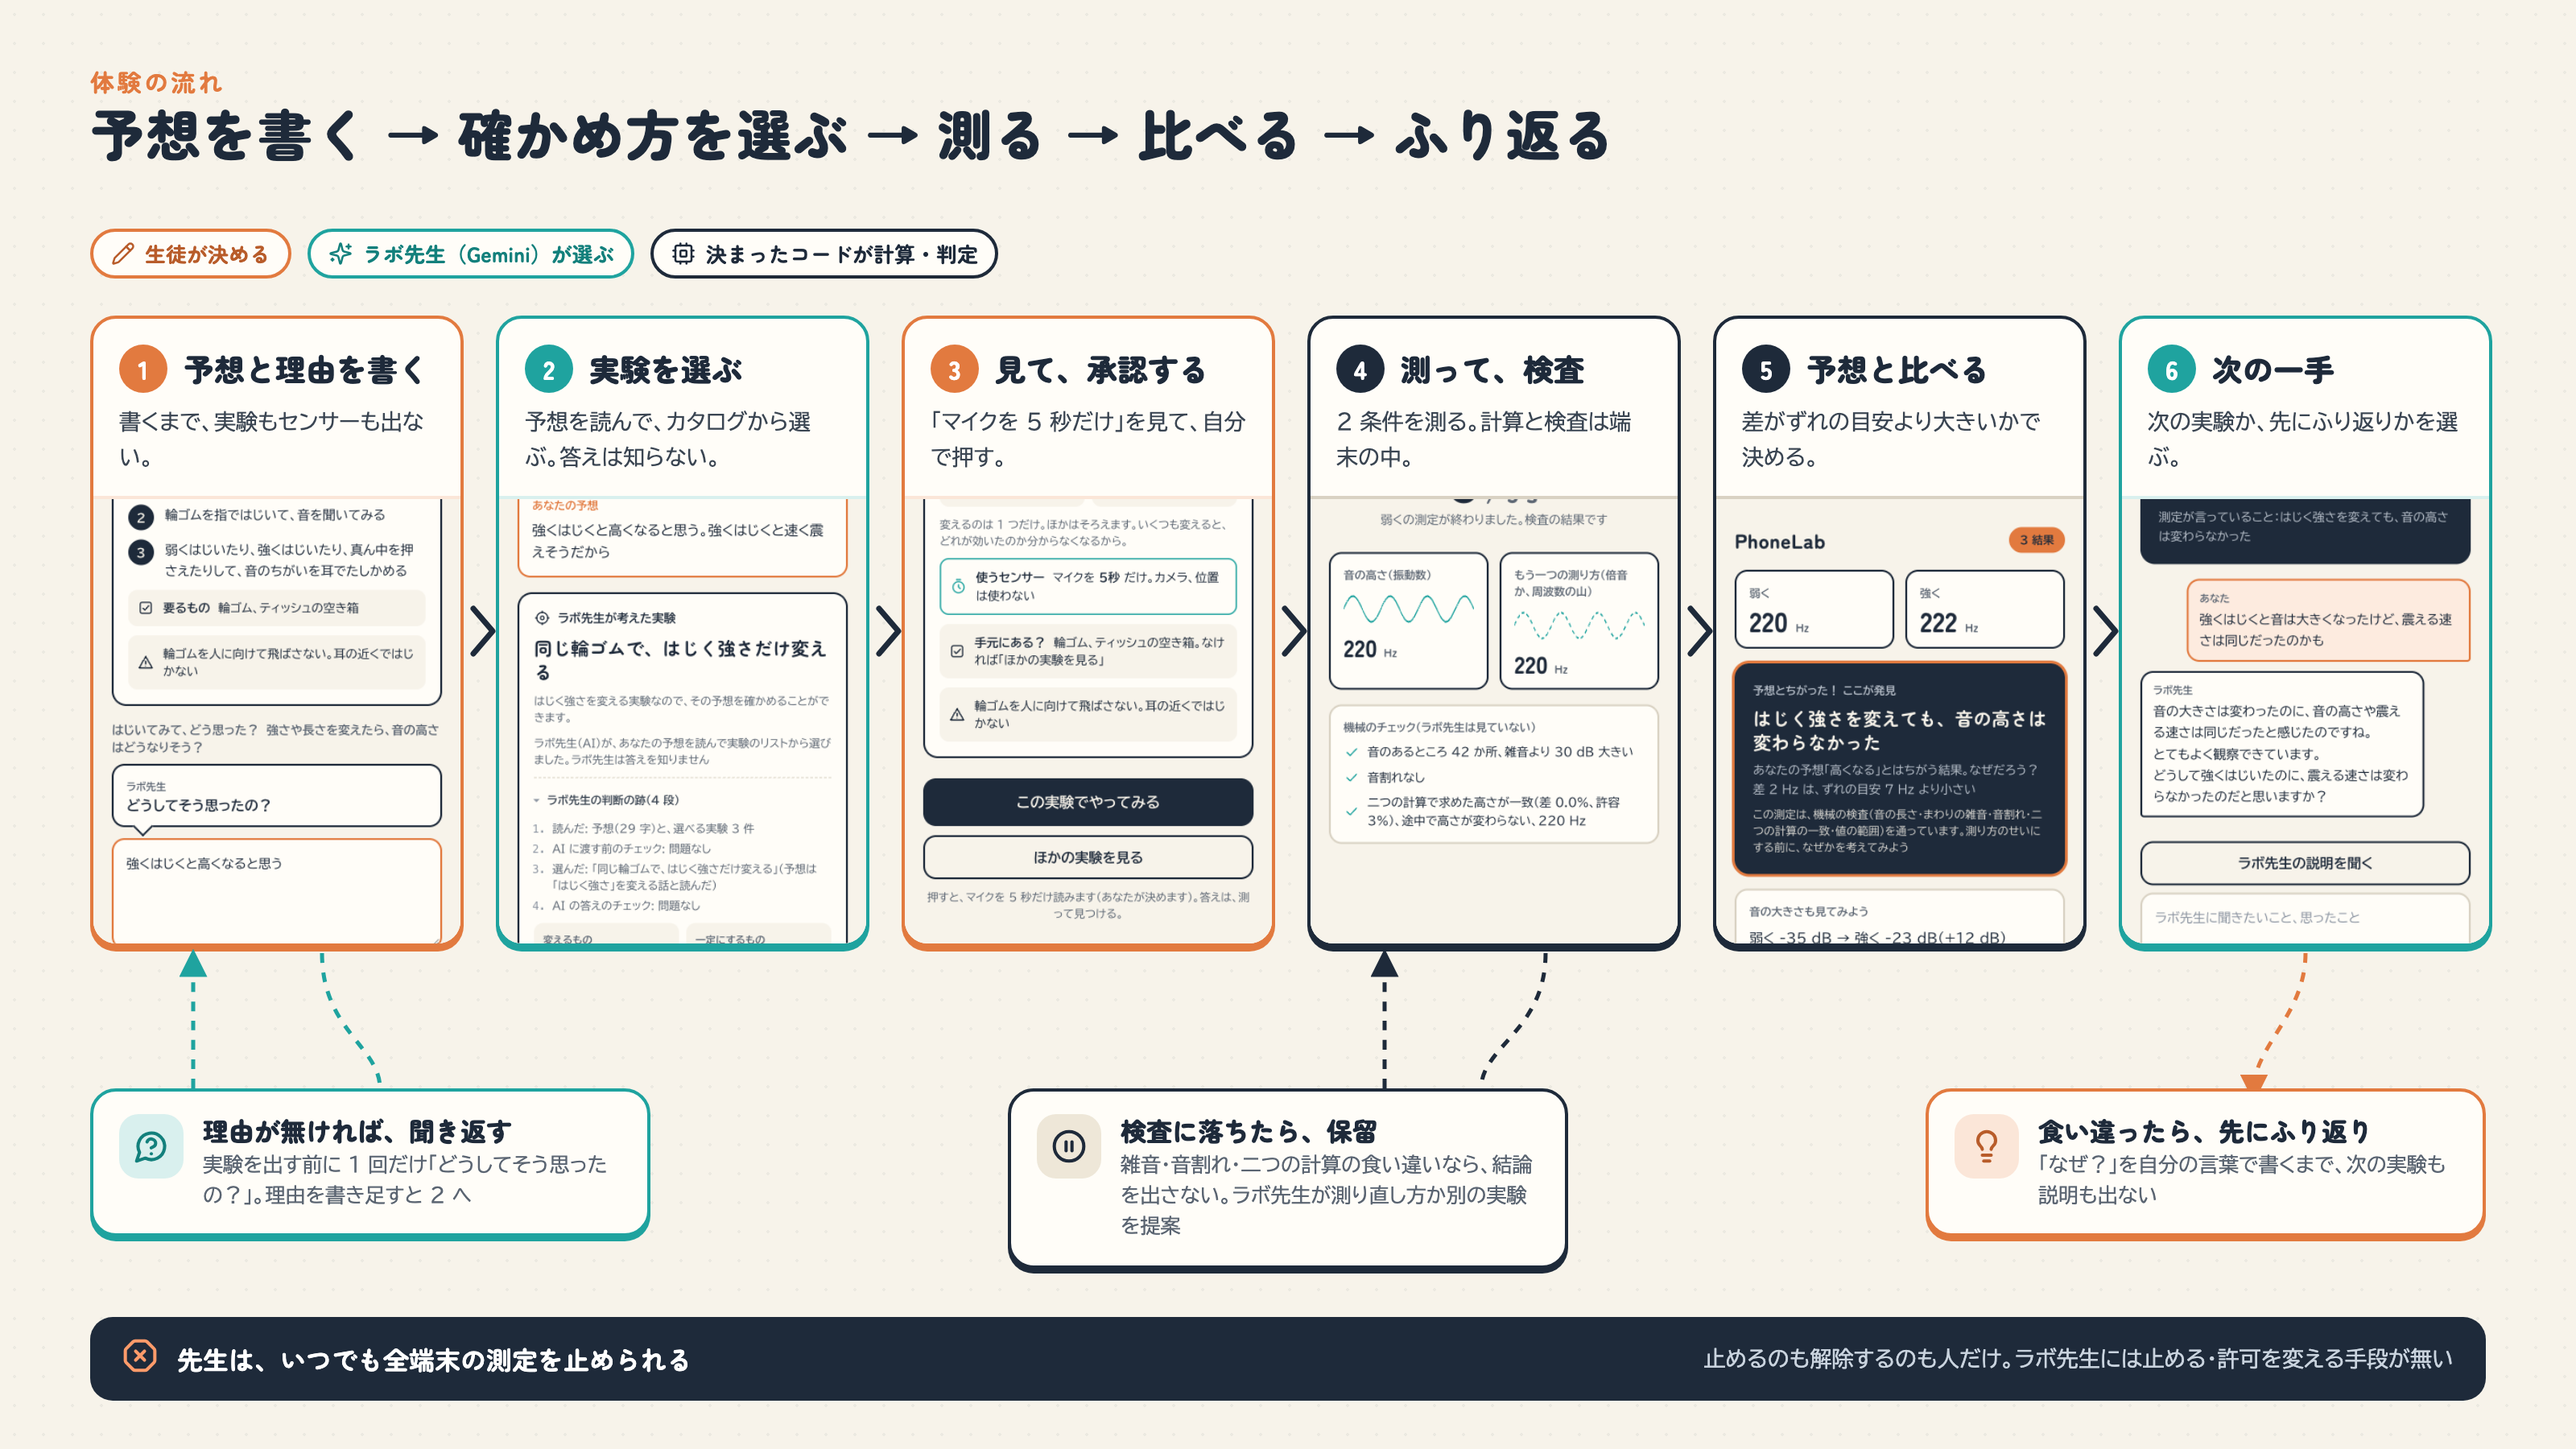
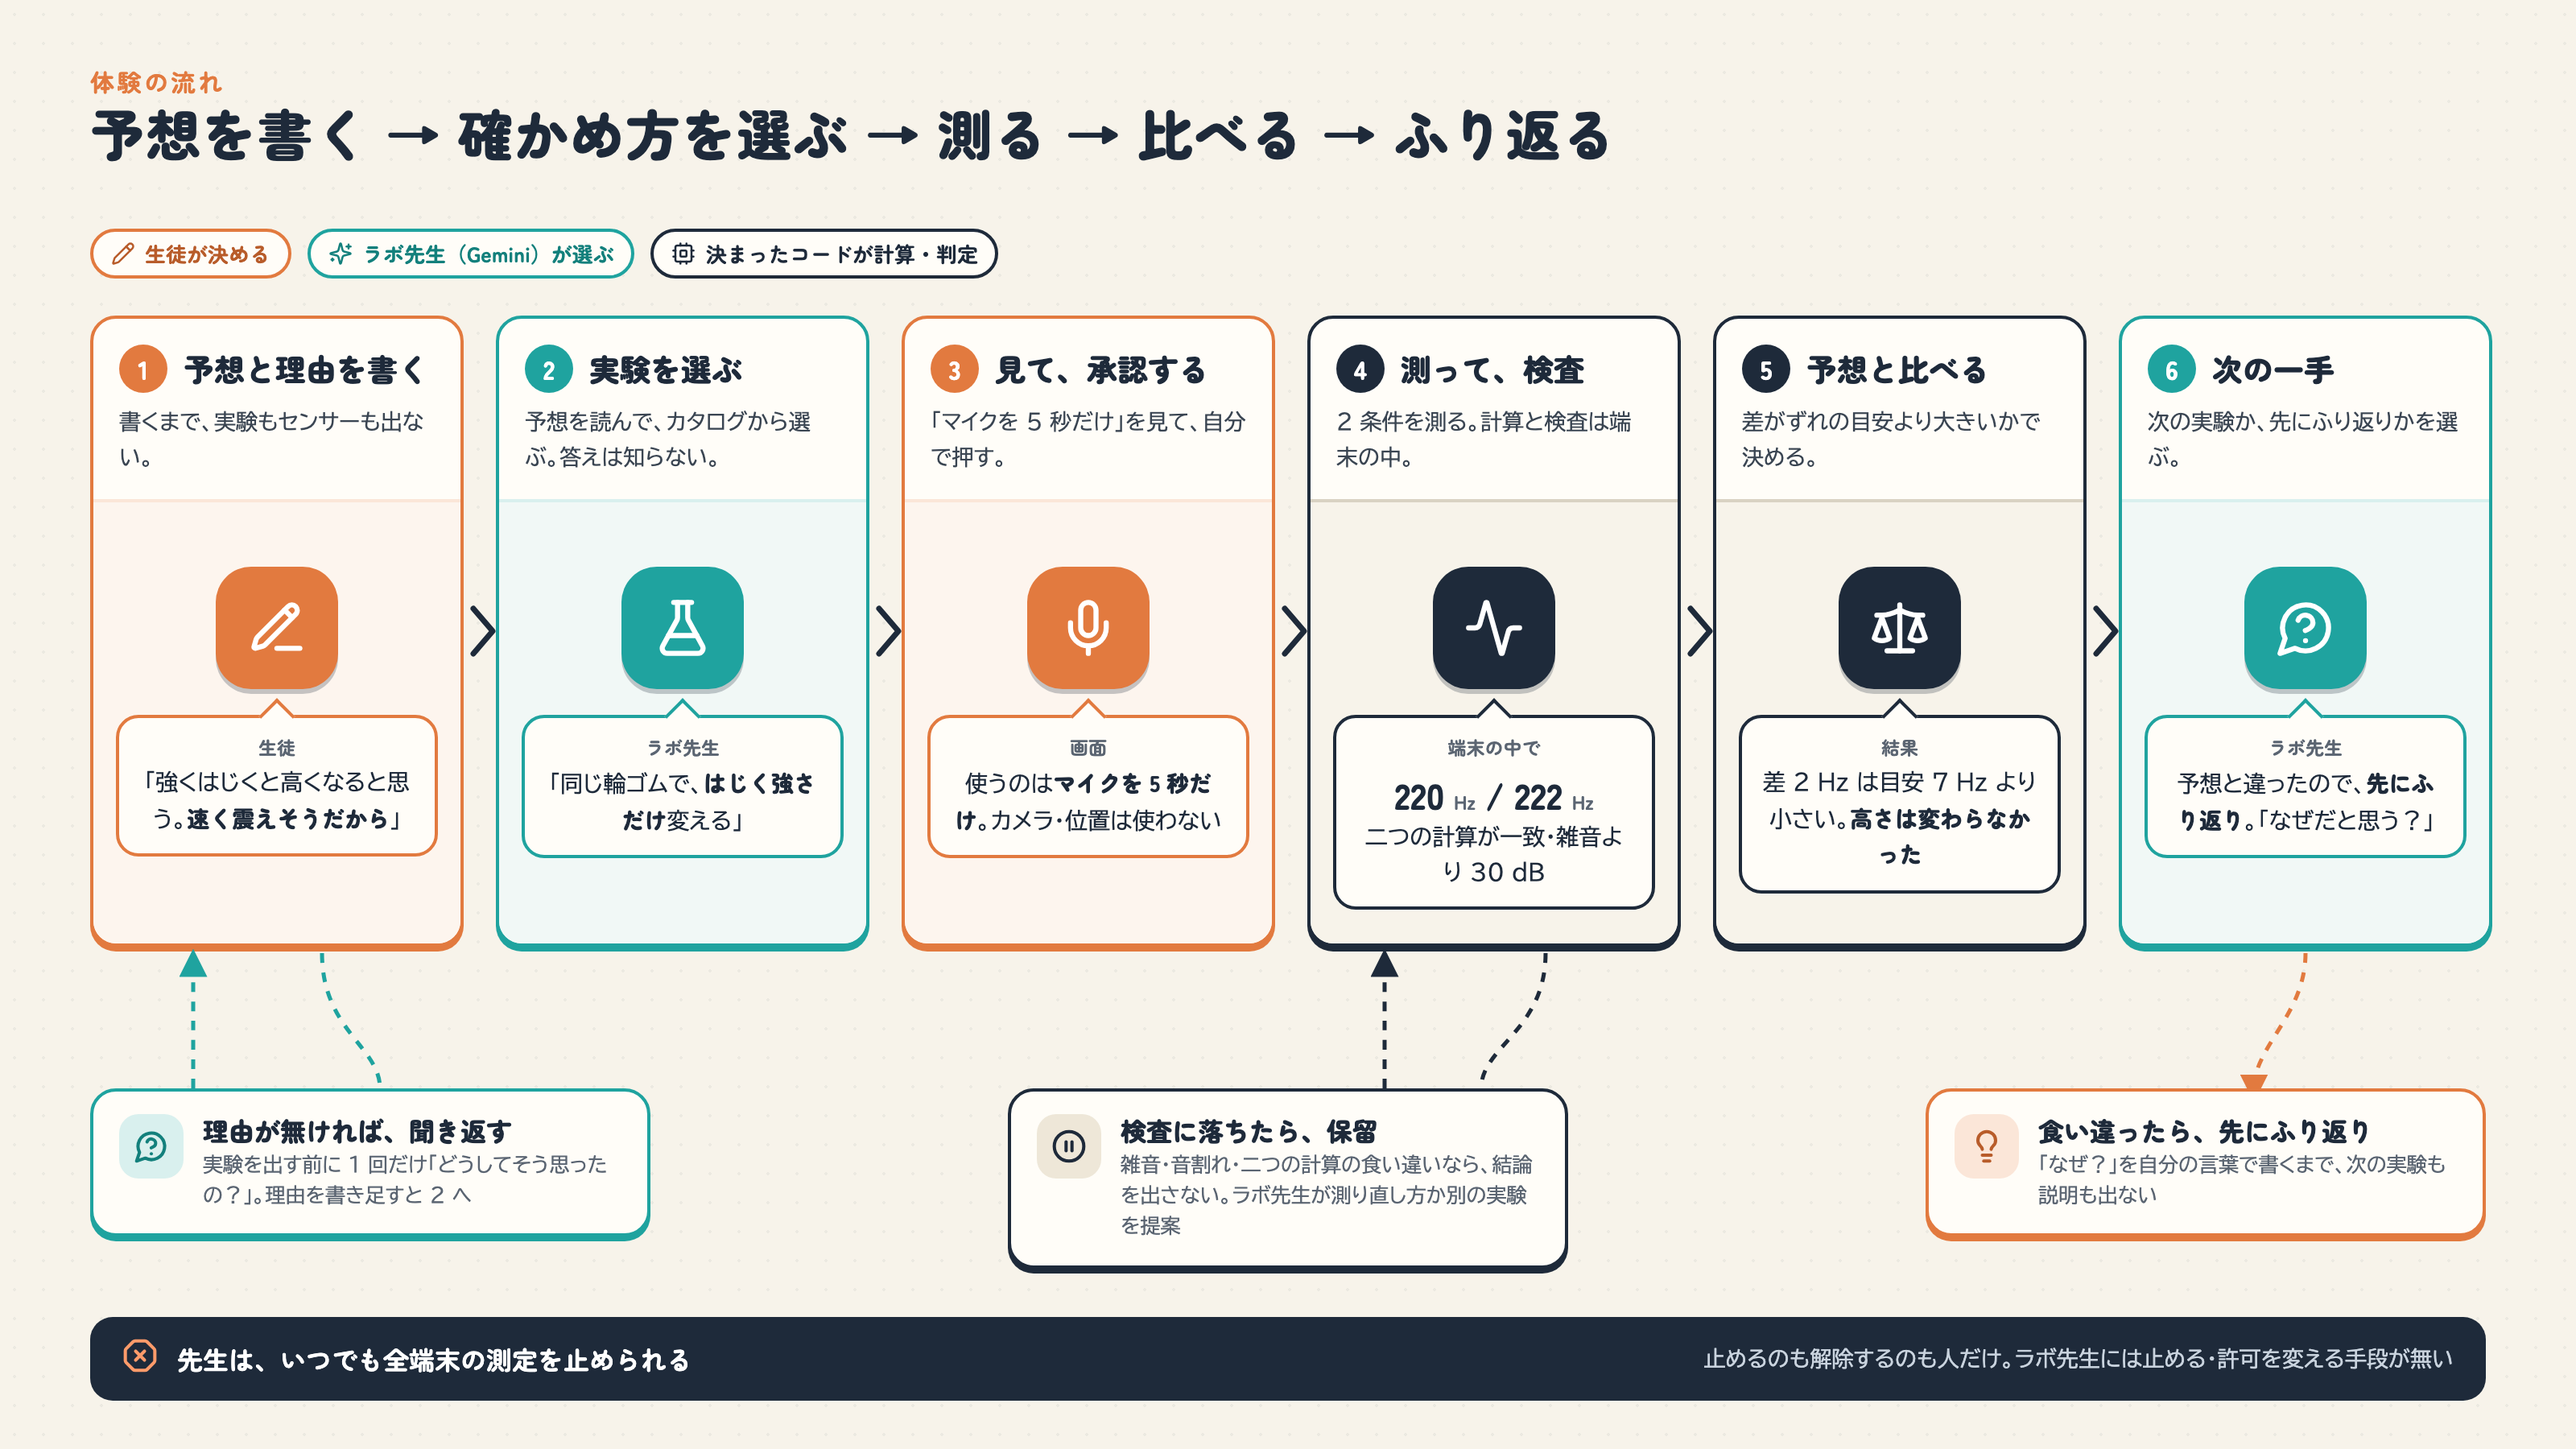
docs(zenn): 体験の流れの図から画面の切り抜きを外し、アイコンと画面に出る言葉に

Changed region(s): [[0.0312, 0.3422, 0.9688, 0.6533]]

diff --git a/docs/zenn-images/diagrams/flow.html b/docs/zenn-images/diagrams/flow.html
@@ -8,12 +8,21 @@
   .step { position: absolute; top: 196px; width: 232px; height: 392px; padding: 16px 16px 0; display: flex; flex-direction: column; gap: 8px; overflow: hidden; }
   .step .head { display: flex; align-items: center; gap: 10px; white-space: nowrap; }
   .step .desc { min-height: 44px; }
-  .thumb {
-    margin: 4px -16px 0; flex: 1; border-top: 2px solid var(--line);
-    background-size: 100% auto; background-repeat: no-repeat; background-color: var(--paper);
-  }
-  .step.ai .thumb { border-top-color: var(--teal-soft); }
-  .step.student .thumb { border-top-color: var(--orange-soft); }
+  .art { margin: 6px -16px 0; flex: 1; border-top: 2px solid var(--line); background: var(--paper); display: flex; flex-direction: column; align-items: center; justify-content: flex-start; gap: 16px; padding: 40px 14px 20px; }
+  .step.ai .art { border-top-color: var(--teal-soft); background: #f1f8f6; }
+  .step.student .art { border-top-color: var(--orange-soft); background: #fdf5ee; }
+  .big { width: 76px; height: 76px; border-radius: 22px; display: grid; place-items: center; background: var(--ink); color: #fff; box-shadow: 0 3px 0 rgba(30,42,58,.25); }
+  .big svg { width: 38px; height: 38px; stroke-width: 2; }
+  .step.ai .big { background: var(--teal); }
+  .step.student .big { background: var(--orange); }
+  .bubble { position: relative; width: 100%; background: var(--card); border: 2px solid var(--ink); border-radius: 14px; padding: 10px 12px; font-size: 14px; line-height: 1.55; text-align: center; color: var(--ink); }
+  .bubble::before { content: ""; position: absolute; left: 50%; top: -9px; width: 14px; height: 14px; background: var(--card); border-left: 2px solid var(--ink); border-top: 2px solid var(--ink); transform: translateX(-50%) rotate(45deg); }
+  .step.ai .bubble, .step.ai .bubble::before { border-color: var(--teal); }
+  .step.student .bubble, .step.student .bubble::before { border-color: var(--orange); }
+  .bubble b { font-family: var(--font-head); font-weight: 900; }
+  .bubble .who { display: block; font-size: 11.5px; color: var(--muted); margin-bottom: 2px; font-family: var(--font-head); font-weight: 700; }
+  .nums { display: flex; gap: 6px; justify-content: center; align-items: baseline; font-family: var(--font-head); font-weight: 900; font-size: 22px; }
+  .nums small { font-size: 12px; color: var(--muted); font-weight: 700; }
   .chev { position: absolute; top: 372px; width: 20px; height: 40px; color: var(--ink); }
   .loop { position: absolute; top: 676px; width: 348px; padding: 14px 16px; display: flex; gap: 12px; align-items: flex-start; }
   .loop .icon { flex: none; width: 40px; height: 40px; border-radius: 12px; display: grid; place-items: center; }
@@ -38,32 +47,32 @@
   <div class="card step student" style="left:56px">
     <div class="head"><span class="num" style="background:var(--orange)">1</span><span class="title">予想と理由を書く</span></div>
     <div class="desc">書くまで、実験もセンサーも出ない。</div>
-    <div class="thumb" style="background-image:url(../02-question-back.png); background-position:0 74%"></div>
+    <div class="art"><div class="big"><i data-lucide="pencil-line"></i></div><div class="bubble"><span class="who">生徒</span>「強くはじくと高くなると思う。<b>速く震えそうだから</b>」</div></div>
   </div>
   <div class="card step ai" style="left:308px">
     <div class="head"><span class="num" style="background:var(--teal)">2</span><span class="title">実験を選ぶ</span></div>
     <div class="desc">予想を読んで、カタログから選ぶ。答えは知らない。</div>
-    <div class="thumb" style="background-image:url(../03-plan.png); background-position:0 21%"></div>
+    <div class="art"><div class="big"><i data-lucide="flask-conical"></i></div><div class="bubble"><span class="who">ラボ先生</span>「同じ輪ゴムで、<b>はじく強さだけ</b>変える」</div></div>
   </div>
   <div class="card step student" style="left:560px">
     <div class="head"><span class="num" style="background:var(--orange)">3</span><span class="title">見て、承認する</span></div>
     <div class="desc">「マイクを 5 秒だけ」を見て、自分で押す。</div>
-    <div class="thumb" style="background-image:url(../03-plan.png); background-position:0 100%"></div>
+    <div class="art"><div class="big"><i data-lucide="mic"></i></div><div class="bubble"><span class="who">画面</span>使うのは<b>マイクを 5 秒だけ</b>。カメラ・位置は使わない</div></div>
   </div>
   <div class="card step" style="left:812px">
     <div class="head"><span class="num">4</span><span class="title">測って、検査</span></div>
     <div class="desc">2 条件を測る。計算と検査は端末の中。</div>
-    <div class="thumb" style="background-image:url(../04-checks.png); background-position:0 38%"></div>
+    <div class="art"><div class="big"><i data-lucide="activity"></i></div><div class="bubble"><span class="who">端末の中で</span><span class="nums">220<small>Hz</small> / 222<small>Hz</small></span>二つの計算が一致・雑音より 30 dB</div></div>
   </div>
   <div class="card step" style="left:1064px">
     <div class="head"><span class="num">5</span><span class="title">予想と比べる</span></div>
     <div class="desc">差がずれの目安より大きいかで決める。</div>
-    <div class="thumb" style="background-image:url(../05-result.png); background-position:0 0%"></div>
+    <div class="art"><div class="big"><i data-lucide="scale"></i></div><div class="bubble"><span class="who">結果</span>差 2 Hz は目安 7 Hz より小さい。<b>高さは変わらなかった</b></div></div>
   </div>
   <div class="card step ai" style="left:1316px">
     <div class="head"><span class="num" style="background:var(--teal)">6</span><span class="title">次の一手</span></div>
     <div class="desc">次の実験か、先にふり返りかを選ぶ。</div>
-    <div class="thumb" style="background-image:url(../06-chat.png); background-position:0 44%"></div>
+    <div class="art"><div class="big"><i data-lucide="message-circle-question"></i></div><div class="bubble"><span class="who">ラボ先生</span>予想と違ったので、<b>先にふり返り</b>。「なぜだと思う？」</div></div>
   </div>
 
   <!-- 段のあいだの矢印 -->
